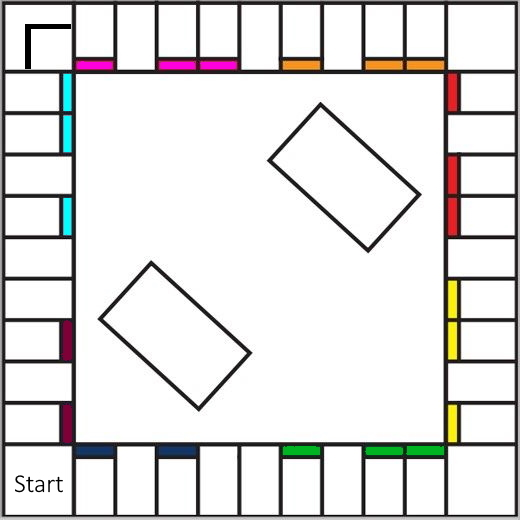
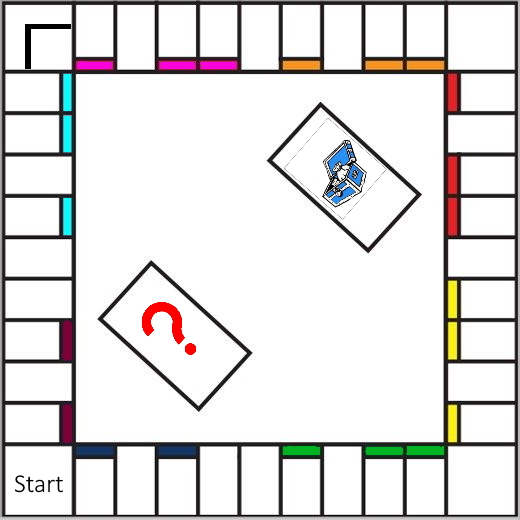
afbeeldingen terug inorde gemaakt

Changed region(s): [[0.6154, 0.2462, 0.7077, 0.4], [0.2769, 0.5846, 0.4, 0.6769]]

diff --git a/Project_Monopoly/Spelbord.xaml.cs b/Project_Monopoly/Spelbord.xaml.cs
@@ -243,8 +243,6 @@ namespace Project_Monopoly
 
         private void InitializeSpelbord()
         {
-            KanskaartenStapel kanskaarten = new KanskaartenStapel();
-            lblTest.Content = kanskaarten.neemKansKaart().Omschrijving;
             foreach (Spelvak huidigvak in spelvakken)
             {
                 SetCardText(huidigvak);
@@ -440,8 +438,8 @@ namespace Project_Monopoly
             else if (huidigvak.Graden == 180)
             {
                 nameTop = top + V;
-                imgCrdTop = nameTop;
-                imgCrdLeft = nameLeft;
+                imgCrdTop = nameTop - 20;
+                imgCrdLeft = nameLeft + 2;
                 imgCanBuyTop = nameTop - 20;
                 imgCanBuyLeft = nameLeft;
                 if (IsSpecialCard(huidigvak.Naam))
@@ -580,6 +578,8 @@ namespace Project_Monopoly
                 afbeelding.RenderTransform = rotate0;
                 nameLabel.FontSize = 20;
                 nameLabel.Width = 120;
+                priceLabel.Content = "";
+                nameLabel.Content = huidigvak.Naam;
             }
 
             else if(huidigvak.Positie == 30)
